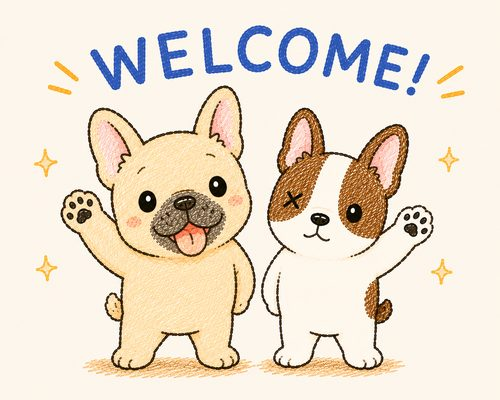
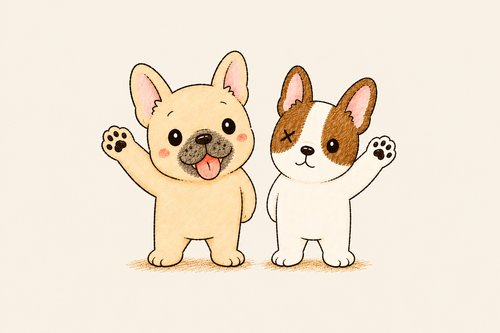
image1

diff --git a/index.html b/index.html
@@ -219,7 +219,7 @@
     .ftbtn:first-child { border-right: 1px solid rgba(26,26,46,.2); }
 
     /* COMPLETE */
-    .mascot-img { display: block; width: 220px; max-width: 80%; margin: 0 auto 12px; border-radius: 12px; mix-blend-mode: multiply; }
+    .mascot-img { display: block; width: 220px; max-width: 80%; margin: 0 auto 12px; border-radius: 12px; }
     .complete-card { background: var(--ink); border-radius: 24px; padding: 30px 20px; text-align: center; color: var(--paper); box-shadow: var(--shadow-lg); }
     .complete-card .big-emoji { font-size: 46px; margin-bottom: 10px; }
     .complete-card h2 { font-family: 'Shippori Mincho', serif; font-size: 22px; font-weight: 800; color: var(--gold-light); margin-bottom: 5px; }
